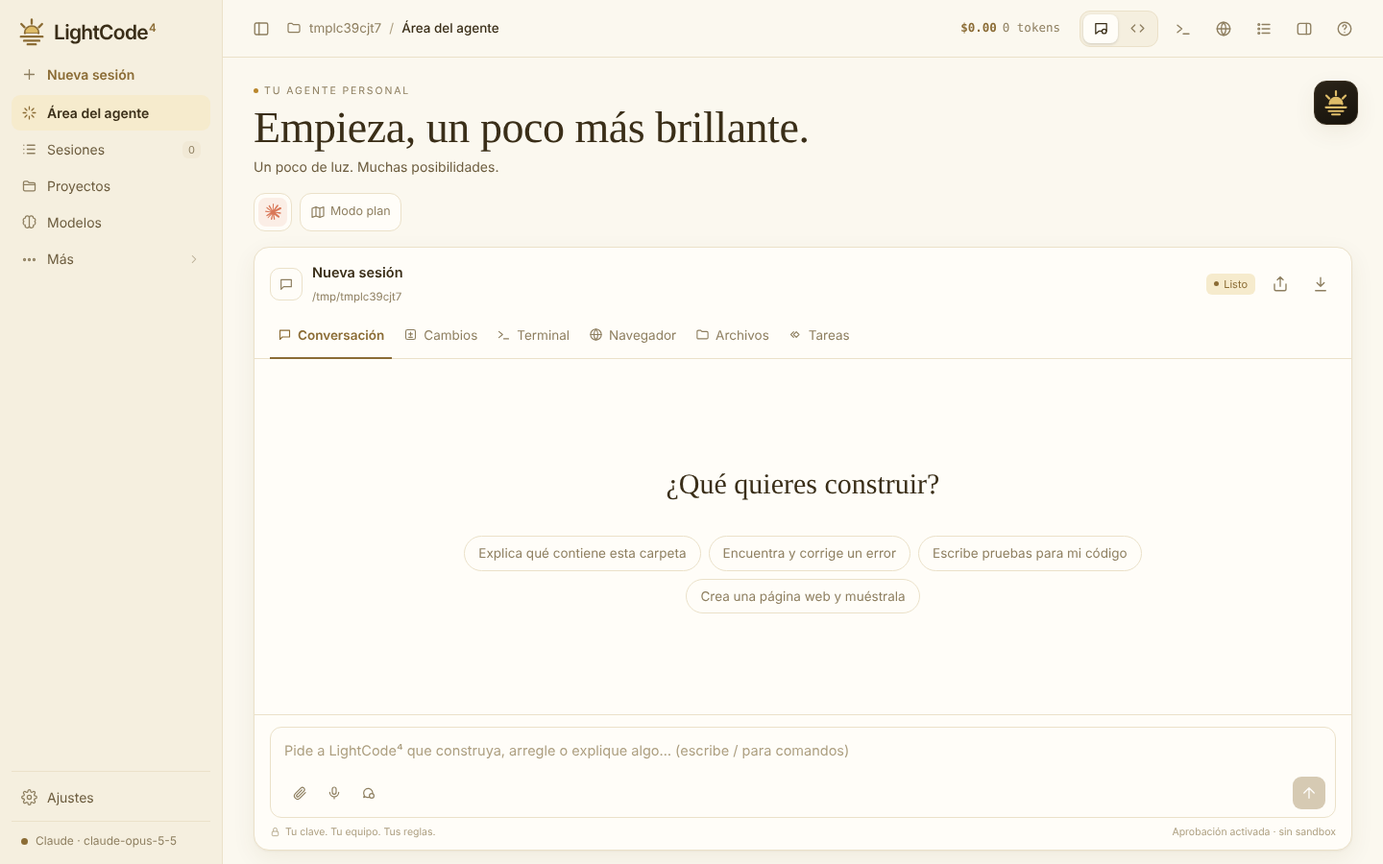
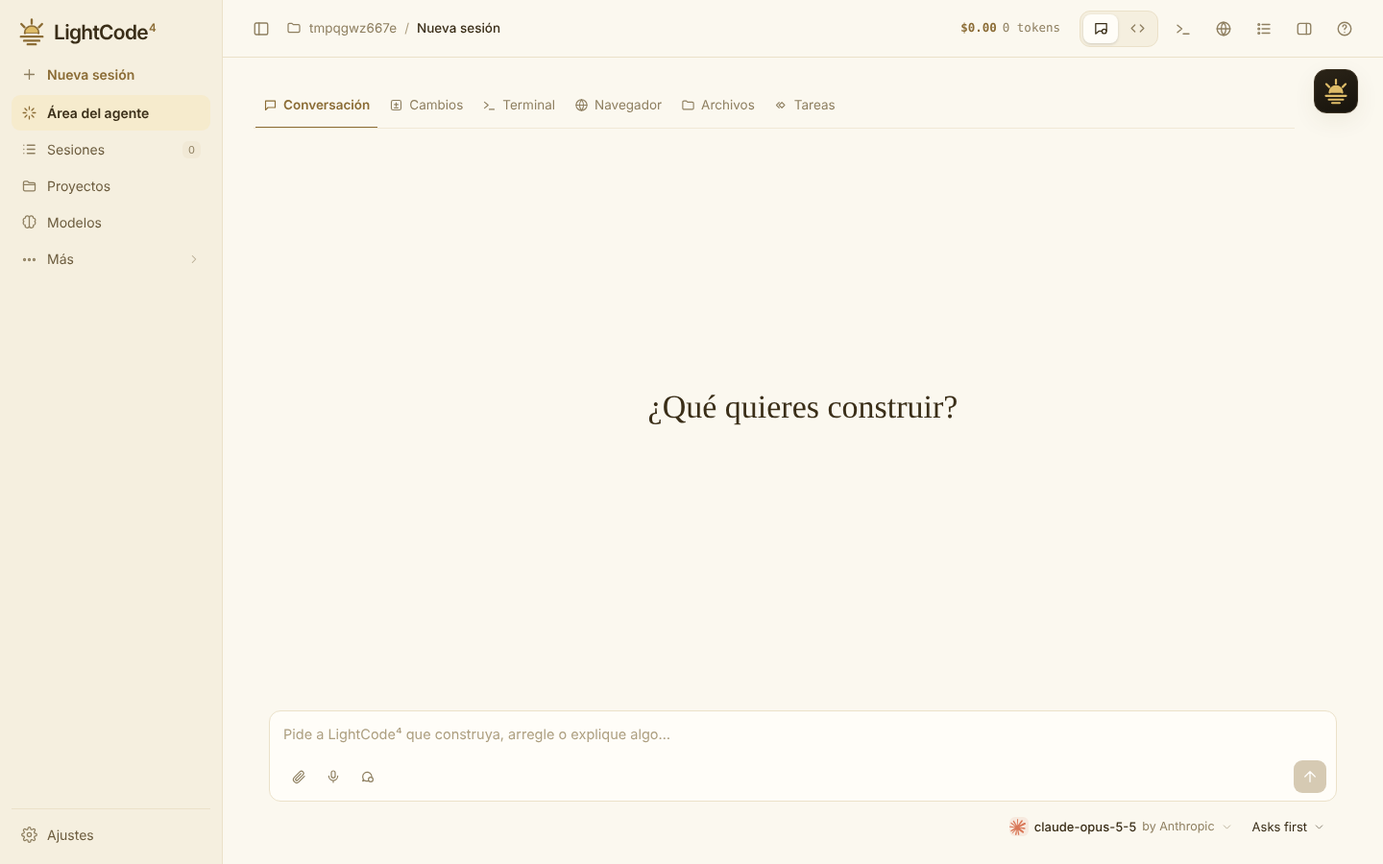
Clean front page: conversation only, model and mode picker under the message box (Asks first / Auto-approve / Plan mode), chat title in the top bar, no headings, chips or slogans
Claude-Session: https://claude.ai/code/session_01AvqsqpDFjBC8YmDhkXMhAb

diff --git a/myagent/static/index.html b/myagent/static/index.html
@@ -444,7 +444,7 @@ details.toolcard { border-radius: 10px; box-shadow: none; }
 @media (max-width: 760px) { .page { padding: 16px; } .pagehead h1 { font-size: 34px; } .pagehead .btn:not(.primary), .ghostbtn { display: none; } }
 
 .rail { width: auto; background: none; padding: 0; border: 0; overflow: visible; margin: 0; }
-#railDock { position: fixed; z-index: 60; right: 26px; top: 84px; touch-action: none; }
+#railDock { position: fixed; z-index: 60; right: 26px; top: 72px; touch-action: none; }
 #railFab { width: 46px; height: 46px; border-radius: 13px; border: 1px solid #3a3020; background: linear-gradient(160deg, #2b2418, #17130c); color: #dfbd69;
   display: grid; place-items: center; box-shadow: var(--shadow); cursor: grab; position: relative; transition: transform .15s, box-shadow .15s; }
 #railFab:hover { transform: translateY(-1px); box-shadow: 0 2px 4px rgba(0,0,0,.08), 0 10px 28px rgba(91,65,21,.14); }
@@ -649,6 +649,35 @@ body.models-open #modelsView { display: block !important; }
 #planBtn { height: 40px; border-radius: 12px; background: var(--panel); }
 #provMenu { left: 0; }
 #side .brand { padding-bottom: 6px; }
+/* ---- clean chat page: conversation, message box, and a small model / mode bar underneath ---- */
+.page > .pagehead { display: none !important; }
+.chatcard { background: none; border: 0; box-shadow: none; }
+.chatcard > .cardhead { display: none; }
+.chatcard .ctabs { border-bottom: 1px solid var(--line-soft); padding-left: 2px; margin-right: 60px; overflow-x: auto; scrollbar-width: none; }
+.chatcard .ctabs::-webkit-scrollbar { display: none; } .chatcard .ctab { flex: none; }
+.chips { display: none !important; }
+#welcome .empty { font-size: 34px; }
+#dock { border-top: 0 !important; }
+#ctxMeter:not([hidden]) + #send { margin-left: 6px; }
+#side .who { display: none; } #side .who:has(.dot.off) { display: flex; }
+#compbar { display: flex; justify-content: flex-end; align-items: center; gap: 6px; padding: 6px 4px 0; position: relative; }
+#compbar .modelbar { display: flex; align-items: center; gap: 4px; position: static; flex-wrap: nowrap; }
+#compbar .modelchip { border: 0; background: none; padding: 4px 8px; border-radius: 9px; gap: 6px; color: var(--text); font-size: 13px; }
+#compbar .modelchip:hover, #compbar .modelchip.open { background: var(--hover); }
+#compbar .modelchip > b, #compbar .modelchip > small, #compbar .modelchip > svg { max-width: none; opacity: 1; margin: 0; }
+#compbar .modelchip > b { font-weight: 500; font-size: 13px; max-width: 260px; overflow: hidden; text-overflow: ellipsis; }
+#compbar .modelchip > small { color: var(--muted); font-size: 12.5px; } #compbar .modelchip > svg { width: 13px; height: 13px; transform: rotate(90deg); opacity: .6; }
+#compbar .modelchip .mlogo, #compbar .modelchip .plogo { width: 20px; height: 20px; font-size: 12px; border-radius: 6px; }
+#compbar #planBtn { height: auto; background: none; border: 0; padding: 4px 8px; border-radius: 9px; font-size: 13px; color: var(--text); display: flex; align-items: center; gap: 6px; }
+#compbar #planBtn:hover, #compbar #planBtn[aria-expanded="true"] { background: var(--hover); } #compbar #planBtn svg { width: 13px; height: 13px; transform: rotate(90deg); opacity: .6; }
+#compbar #planBtn.on { color: var(--accent); }
+#compbar #provMenu { top: auto; bottom: calc(100% + 8px); left: auto; right: 0; }
+#modeMenu { position: absolute; right: 0; bottom: calc(100% + 8px); width: 280px; z-index: 31; background: var(--panel); border: 1px solid var(--line); border-radius: 14px; padding: 6px; box-shadow: 0 12px 40px rgba(0,0,0,.14); }
+#modeMenu[hidden] { display: none; }
+#modeMenu button { display: block; width: 100%; text-align: left; border: 0; background: none; padding: 8px 10px; border-radius: 9px; cursor: pointer; color: var(--text); }
+#modeMenu button:hover, #modeMenu button:focus-visible { background: var(--hover); outline: none; }
+#modeMenu button.on b::after { content: "  ✓"; color: var(--accent); }
+#modeMenu b { display: block; font-size: 13.5px; font-weight: 500; } #modeMenu small { display: block; font-size: 11.5px; color: var(--muted); margin-top: 1px; }
 #side .more { display: flex; flex-direction: column; }
 #moreBtn .mchev { margin-left: auto; width: 14px; height: 14px; transition: transform .2s; opacity: .6; }
 .morelist { display: grid; grid-template-rows: 0fr; opacity: 0; visibility: hidden; overflow: hidden;
@@ -758,17 +787,6 @@ body.models-open #modelsView { display: block !important; }
       <button hidden class="btn" id="viewCodeBtn"><svg viewBox="0 0 24 24"><path d="M8 7l-5 5 5 5M16 7l5 5-5 5"/></svg>View code</button>
       <button hidden class="btn primary" id="newSessionBtn"><svg><use href="#i-plus"/></svg>New session</button>
     </div>
-    <div class="modelbar">
-      <div id="provMenu" class="card" hidden role="menu" aria-label="Choose a provider">
-        <div class="pmhead">A model for every possibility</div><div id="provList"></div>
-        <button class="pmfoot" id="provAll"><svg><use href="#i-list"/></svg>All models &amp; API settings<svg class="arrow"><use href="#i-up"/></svg></button>
-      </div>
-      <button class="modelchip" id="modelPill" title="Model — click to switch" aria-label="Model"><span class="mlogo serif">✳</span><b id="modelName">model</b><small id="modelBy">by Anthropic</small><svg><use href="#i-chev"/></svg></button>
-      <span id="sdkName" hidden></span>
-      <span id="instrPill" class="sdk" hidden data-keep-hidden title="Project instructions in use"><svg><use href="#i-file"/></svg><span id="instrName"></span></span>
-      <span class="spacer"></span>
-      <button class="ghost" id="planBtn" title="Plan mode: research and propose a plan before changing anything"><svg><use href="#i-map"/></svg>Plan mode</button>
-    </div>
     <section id="galleryView" hidden>
       <div class="pagehead"><div><div class="eyebrow">Add abilities in one click</div><h1 class="serif">Skills &amp; connectors</h1>
         <p class="sub">Skills teach the agent a way of working. Connectors give it access to your other apps.</p></div>
@@ -832,10 +850,7 @@ body.models-open #modelsView { display: block !important; }
           <section id="welcome">
             <div class="empty serif">What would you like to build?</div>
             <div class="chips">
-              <button class="chip">Explain what this folder contains</button>
-              <button class="chip">Find and fix a bug</button>
-              <button class="chip">Write tests for my code</button>
-              <button class="chip">Build a small web page and preview it</button>
+
             </div>
           </section>
           <div id="scroll"><div class="col"><div id="log" role="log" aria-live="polite" aria-label="Conversation"></div></div></div>
@@ -883,7 +898,7 @@ body.models-open #modelsView { display: block !important; }
 <div class="composer" id="composer">
       <div id="cmdMenu"></div>
       <div id="files"></div>
-      <textarea id="input" aria-label="Message" rows="1" placeholder="Ask LightCode⁴ to build, fix or explain something… (type / for commands)"></textarea>
+      <textarea id="input" aria-label="Message" rows="1" placeholder="Ask LightCode⁴ to build, fix or explain something…"></textarea>
       <div class="comp-row">
         <button class="ghost" id="attach" title="Attach images, PDFs or text files" aria-label="Attach files"><svg><use href="#i-clip"/></svg></button>
         <button class="ghost" id="micBtn" title="Voice typing" aria-label="Voice typing"><svg viewBox="0 0 24 24"><rect x="9" y="3" width="6" height="11" rx="3"/><path d="M5 11a7 7 0 0 0 14 0M12 18v3"/></svg></button>
@@ -893,7 +908,24 @@ body.models-open #modelsView { display: block !important; }
       </div>
       <input type="file" id="fileInput" multiple hidden>
     </div>
-          <div class="foot"><span><svg viewBox="0 0 24 24"><rect x="5" y="11" width="14" height="10" rx="2"/><path d="M8 11V7a4 4 0 0 1 8 0v4"/></svg>Your API key. Your machine. Your rules.</span><span id="footMode">Local workspace</span></div>
+          <div class="foot" id="compbar">
+            <div class="modelbar">
+      <div id="provMenu" class="card" hidden role="menu" aria-label="Choose a provider">
+        <div class="pmhead">A model for every possibility</div><div id="provList"></div>
+        <button class="pmfoot" id="provAll"><svg><use href="#i-list"/></svg>All models &amp; API settings<svg class="arrow"><use href="#i-up"/></svg></button>
+      </div>
+      <button class="modelchip" id="modelPill" title="Model — click to switch" aria-label="Model"><span class="mlogo serif">✳</span><b id="modelName">model</b><small id="modelBy">by Anthropic</small><svg><use href="#i-chev"/></svg></button>
+      <span id="sdkName" hidden></span>
+      <span id="instrPill" class="sdk" hidden data-keep-hidden title="Project instructions in use"><svg><use href="#i-file"/></svg><span id="instrName"></span></span>
+      <span class="spacer"></span>
+      <button class="ghost" id="planBtn" title="How the agent works: asks first, auto-approve, or plan mode" aria-haspopup="menu" aria-expanded="false"><span id="modeLabel">Asks first</span><svg><use href="#i-chev"/></svg></button>
+      <div id="modeMenu" role="menu" hidden>
+        <button role="menuitemradio" data-mode="ask"><b>Asks first</b><small>Approve each change and command</small></button>
+        <button role="menuitemradio" data-mode="auto"><b>Auto-approve</b><small>Works without stopping to ask</small></button>
+        <button role="menuitemradio" data-mode="plan"><b>Plan mode</b><small>Researches and proposes a plan, changes nothing</small></button>
+      </div>
+    </div>
+          <span id="footMode" hidden></span></div>
         </div>
       </section>
       <div id="railDock">
@@ -1443,10 +1475,11 @@ function setProvider(p) {
   $("models").innerHTML = (MODELS[p] || []).map(m => `<option value="${m}">`).join("");
 }
 function setPlanTr() { if (typeof uiLang !== "undefined" && uiLang !== "en") { const t = (I18N[uiLang] || {})[$("input").placeholder]; if (t) $("input").placeholder = t; } }
-function setPlan(on) { config.plan = on; $("planBtn").classList.toggle("on", on); $("composer").classList.toggle("plan", on);
-  $("input").placeholder = on ? "Describe what you want. The agent will research and propose a plan first…" : "Ask LightCode⁴ to build, fix or explain something… (type / for commands)"; setPlanTr(); }
+function setPlan(on) { config.plan = on; $("planBtn").classList.toggle("on", on); $("composer").classList.toggle("plan", on); if (typeof updateModeBtn === "function") updateModeBtn();
+  $("input").placeholder = on ? "Describe what you want. The agent will research and propose a plan first…" : "Ask LightCode⁴ to build, fix or explain something…"; setPlanTr(); }
 function showConfig(c) {
   config = c;
+  if (typeof updateModeBtn === "function") setTimeout(updateModeBtn, 0);
   $("modelName").textContent = c.model + (c.provider === "claude" ? ` · ${c.effort}` : "");
   $("who").textContent = { claude: "Claude", openai: "OpenAI", local: "Local" }[c.provider] + " · " + c.model;
   const parts = (c.cwd || "").split(/[\\/]/).filter(Boolean); $("folderName").textContent = (parts.length > 2 ? "…/" : "/") + parts.slice(-2).join("/");
@@ -1528,7 +1561,25 @@ $("cancelSettings").onclick = $("closeSettings").onclick = () => $("settings").c
 $("openSettings").onclick = () => openSettings(); $("modelPill").onclick = () => openSettings(); $("folderPill").onclick = () => openSettings();
 $("instrPill").onclick = () => openSettings("instr");
 $("toggleSide").onclick = () => $("side").classList.toggle("hidden");
-$("planBtn").onclick = async () => { const on = !config.plan; setPlan(on); try { await api("/api/config", { plan: on }); } catch (e) { notice(e.message); } };
+function updateModeBtn() {
+  const m = config.plan ? "plan" : config.auto ? "auto" : "ask";
+  $("modeLabel").textContent = { ask: "Asks first", auto: "Auto-approve", plan: "Plan mode" }[m];
+  document.querySelectorAll("#modeMenu [data-mode]").forEach(b => { b.classList.toggle("on", b.dataset.mode === m); b.setAttribute("aria-checked", b.dataset.mode === m); });
+}
+function toggleModeMenu(on = $("modeMenu").hidden) {
+  $("modeMenu").hidden = !on; $("planBtn").setAttribute("aria-expanded", on);
+  if (on) { updateModeBtn(); setTimeout(() => ($("modeMenu").querySelector(".on") || $("modeMenu").querySelector("button")).focus(), 10); }
+}
+$("planBtn").onclick = e => { e.stopPropagation(); toggleModeMenu(); };
+document.querySelectorAll("#modeMenu [data-mode]").forEach(b => b.onclick = async () => {
+  const m = b.dataset.mode, upd = m === "plan" ? { plan: true } : { plan: false, auto: m === "auto" };
+  toggleModeMenu(false); Object.assign(config, upd); setPlan(!!config.plan); updateModeBtn();
+  try { await api("/api/config", upd); } catch (e) { notice(e.message); }
+});
+$("modeMenu").addEventListener("keydown", e => { const items = [...$("modeMenu").querySelectorAll("button")], i = items.indexOf(document.activeElement);
+  if (e.key === "ArrowDown" || e.key === "ArrowUp") { e.preventDefault(); items[(i + (e.key === "ArrowDown" ? 1 : -1) + items.length) % items.length].focus(); }
+  if (e.key === "Escape") { e.preventDefault(); toggleModeMenu(false); $("planBtn").focus(); } });
+document.addEventListener("pointerdown", e => { if (!$("modeMenu").hidden && !e.target.closest("#modeMenu, #planBtn")) toggleModeMenu(false); });
 $("checkUpdate").onclick = async () => {
   $("updateResult").textContent = "Checking…";
   if ($("ghToken").value) await api("/api/config", { github_token: $("ghToken").value }).catch(() => {});
@@ -2164,7 +2215,7 @@ const _openPanel = openPanel, _closePanel = closePanel;
 openPanel = function (tab) { _openPanel(tab); setTab(tab); };
 closePanel = function () { _closePanel(); setTab("chat"); };
 function setTab(t) { document.querySelectorAll(".ctab").forEach(b => b.classList.toggle("on", b.dataset.c === t));
-  $("modeChat").classList.toggle("on", t !== "git"); $("modeCode").classList.toggle("on", t === "git"); $("crumbHere").textContent = { chat: "Agent playground", git: "Changes", term: "Terminal", browser: "Browser", files: "Files", tasks: "Background tasks" }[t] || "Agent playground"; }
+  $("modeChat").classList.toggle("on", t !== "git"); $("modeCode").classList.toggle("on", t === "git"); $("crumbHere").textContent = { chat: $("chatHead").textContent || "New session", git: "Changes", term: "Terminal", browser: "Browser", files: "Files", tasks: "Background tasks" }[t] || "Agent playground"; }
 document.querySelectorAll(".ctab").forEach(b => b.onclick = () => b.dataset.c === "chat" ? closePanel() : openPanel(b.dataset.c));
 $("greet").textContent = "Begin, a little brighter.";
 const navSet = (id) => { document.querySelectorAll("aside .navbtn").forEach(b => b.classList.toggle("on", !!id && b.id === id)); };
@@ -2295,9 +2346,9 @@ const _setBusy = setBusy;
 setBusy = function (b) { _setBusy(b); for (const id of ["chatStatus", "railStatus"]) { $(id).textContent = b ? "Working" : (document.body.classList.contains("chatting") ? "Completed" : "Ready"); $(id).classList.toggle("busy", b); }
   const d = $("railFabDot"); d.classList.toggle("busy", b); d.classList.toggle("done", !b && document.body.classList.contains("chatting")); };
 const _replay = replay;
-replay = function (ev) { _replay(ev); $("chatHead").textContent = ev.chat?.title || "New session"; $("chatSub").textContent = (ev.chat?.project ? "Project · " + ev.chat.project + " · " : "") + (ev.chat?.worktree ? "Branch " + ev.chat.worktree.branch : (ev.chat?.cwd || "Local workspace")); setBusy(!!ev.busy); };
+replay = function (ev) { _replay(ev); $("chatHead").textContent = ev.chat?.title || "New session"; if (!panelTab && !document.body.className.match(/(models|projects|usage|gallery)-open/)) $("crumbHere").textContent = $("chatHead").textContent; $("chatSub").textContent = (ev.chat?.project ? "Project · " + ev.chat.project + " · " : "") + (ev.chat?.worktree ? "Branch " + ev.chat.worktree.branch : (ev.chat?.cwd || "Local workspace")); setBusy(!!ev.busy); };
 const _userMsg = userMsg;
-userMsg = function (ev) { _userMsg(ev); if ($("chatHead").textContent === "New session") $("chatHead").textContent = ev.text.split("\n")[0].slice(0, 70); };
+userMsg = function (ev) { _userMsg(ev); if ($("chatHead").textContent === "New session") { $("chatHead").textContent = ev.text.split("\n")[0].slice(0, 70); if (!panelTab && $("crumbHere").textContent === "New session") $("crumbHere").textContent = $("chatHead").textContent; } };
 let chatCache = [];
 const _loadChats = loadChats;
 loadChats = async function () { await _loadChats(); chatCache = [...document.querySelectorAll("#chatList .chatitem")].map(x => ({ id: x.dataset.id, title: x.title }));
@@ -2425,7 +2476,7 @@ $("fpClose").onclick = () => $("folderPicker").close();
 $("wsBox").onclick = $("railWsBtn").onclick = $("folderPill").onclick = openFolderPicker;
 
 // ---------- Interface language ----------
-const I18N = {"es": {"Agent playground": "Área del agente", "Sessions": "Sesiones", "New session": "Nueva sesión", "Parallel session (worktree)": "Sesión paralela (worktree)", "Workspace": "Espacio de trabajo", "Tasks & plans": "Tareas y planes", "Source control": "Control de versiones", "Make it yours": "Hazlo tuyo", "Context & rules": "Contexto y reglas", "Models": "Modelos", "Tools": "Herramientas", "Connectors": "Conectores", "Automations": "Automatizaciones", "Usage & cost": "Uso y costo", "Activity": "Actividad", "More": "Más", "Changes": "Cambios", "Browser": "Navegador", "Tasks": "Tareas", "Background tasks": "Tareas en segundo plano", "Projects": "Proyectos", "Skills & connectors": "Habilidades y conectores", "Settings": "Ajustes", "A little help": "Ayuda", "Jump to anything…": "Ir a cualquier cosa…", "Your personal agent": "Tu agente personal", "Begin, a little brighter.": "Empieza, un poco más brillante.", "A little light. A lot of possibility.": "Un poco de luz. Muchas posibilidades.", "Checkpoints": "Puntos de control", "View code": "Ver código", "Plan mode": "Modo plan", "Browser preview": "Vista del navegador", "Terminal": "Terminal", "Conversation": "Conversación", "Files": "Archivos", "Run logs": "Registros", "Preview": "Vista previa", "Run overview": "Resumen", "No plan yet": "Aún sin plan", "Open task board": "Abrir tareas", "Model": "Modelo", "Tokens used": "Tokens usados", "Cost": "Costo", "Your next edit, safely saved.": "Tu próxima edición, guardada.", "View": "Ver", "Ready": "Listo", "Working": "Trabajando", "Completed": "Completado", "Idle": "Inactivo", "Your API key. Your machine. Your rules.": "Tu clave. Tu equipo. Tus reglas.", "What would you like to build?": "¿Qué quieres construir?", "Explain what this folder contains": "Explica qué contiene esta carpeta", "Find and fix a bug": "Encuentra y corrige un error", "Write tests for my code": "Escribe pruebas para mi código", "Build a small web page and preview it": "Crea una página web y muéstrala", "Allow": "Permitir", "Deny": "Denegar", "Done": "Hecho", "Running": "Ejecutando", "Failed": "Falló", "Needs approval": "Requiere aprobación", "Undo": "Deshacer", "Cancel": "Cancelar", "Save": "Guardar", "Tools & limits": "Herramientas y límites", "Permissions": "Permisos", "Project instructions": "Instrucciones del proyecto", "Memory": "Memoria", "Schedules": "Programación", "Phone": "Teléfono", "Updates": "Actualizaciones", "Project folder": "Carpeta del proyecto", "Open": "Abrir", "Choose folder…": "Elegir carpeta…", "Keyboard shortcuts": "Atajos de teclado", "Load models": "Cargar modelos", "Test connection": "Probar conexión", "Ask LightCode⁴ to build, fix or explain something… (type / for commands)": "Pide a LightCode⁴ que construya, arregle o explique algo… (escribe / para comandos)", "Approval on": "Aprobación activada", "Auto-approve": "Aprobación automática", "sandboxed": "en sandbox", "unsandboxed": "sin sandbox", "Search models…": "Buscar modelos…"}, "fr": {"Agent playground": "Espace agent", "Sessions": "Sessions", "New session": "Nouvelle session", "Parallel session (worktree)": "Session parallèle (worktree)", "Workspace": "Espace de travail", "Tasks & plans": "Tâches et plans", "Source control": "Contrôle de source", "Make it yours": "Personnaliser", "Context & rules": "Contexte et règles", "Models": "Modèles", "Tools": "Outils", "Connectors": "Connecteurs", "Automations": "Automatisations", "Usage & cost": "Usage et coût", "Activity": "Activité", "More": "Plus", "Changes": "Modifications", "Browser": "Navigateur", "Tasks": "Tâches", "Background tasks": "Tâches en arrière-plan", "Projects": "Projets", "Skills & connectors": "Compétences et connecteurs", "Settings": "Réglages", "A little help": "Aide", "Jump to anything…": "Aller à…", "Your personal agent": "Votre agent personnel", "Begin, a little brighter.": "Commencez, un peu plus lumineux.", "A little light. A lot of possibility.": "Un peu de lumière. Beaucoup de possibilités.", "Checkpoints": "Points de contrôle", "View code": "Voir le code", "Plan mode": "Mode plan", "Browser preview": "Aperçu navigateur", "Terminal": "Terminal", "Conversation": "Conversation", "Files": "Fichiers", "Run logs": "Journaux", "Preview": "Aperçu", "Run overview": "Aperçu de l'exécution", "No plan yet": "Pas encore de plan", "Open task board": "Ouvrir les tâches", "Model": "Modèle", "Tokens used": "Jetons utilisés", "Cost": "Coût", "Your next edit, safely saved.": "Votre prochaine modification, sauvegardée.", "View": "Voir", "Ready": "Prêt", "Working": "En cours", "Completed": "Terminé", "Idle": "Inactif", "Your API key. Your machine. Your rules.": "Votre clé. Votre machine. Vos règles.", "What would you like to build?": "Que voulez-vous créer ?", "Explain what this folder contains": "Explique le contenu de ce dossier", "Find and fix a bug": "Trouver et corriger un bug", "Write tests for my code": "Écrire des tests pour mon code", "Build a small web page and preview it": "Créer une petite page web et l'afficher", "Allow": "Autoriser", "Deny": "Refuser", "Done": "Fait", "Running": "En cours", "Failed": "Échec", "Needs approval": "À approuver", "Undo": "Annuler", "Cancel": "Annuler", "Save": "Enregistrer", "Tools & limits": "Outils et limites", "Permissions": "Autorisations", "Project instructions": "Instructions du projet", "Memory": "Mémoire", "Schedules": "Planification", "Phone": "Téléphone", "Updates": "Mises à jour", "Project folder": "Dossier du projet", "Open": "Ouvrir", "Choose folder…": "Choisir un dossier…", "Keyboard shortcuts": "Raccourcis clavier", "Load models": "Charger les modèles", "Test connection": "Tester la connexion", "Ask LightCode⁴ to build, fix or explain something… (type / for commands)": "Demandez à LightCode⁴ de créer, corriger ou expliquer… (tapez / pour les commandes)", "Approval on": "Approbation activée", "Auto-approve": "Approbation auto", "sandboxed": "isolé", "unsandboxed": "non isolé", "Search models…": "Rechercher des modèles…"}, "pt": {"Agent playground": "Área do agente", "Sessions": "Sessões", "New session": "Nova sessão", "Parallel session (worktree)": "Sessão paralela (worktree)", "Workspace": "Espaço de trabalho", "Tasks & plans": "Tarefas e planos", "Source control": "Controle de versão", "Make it yours": "Personalize", "Context & rules": "Contexto e regras", "Models": "Modelos", "Tools": "Ferramentas", "Connectors": "Conectores", "Automations": "Automações", "Usage & cost": "Uso e custo", "Activity": "Atividade", "More": "Mais", "Changes": "Alterações", "Browser": "Navegador", "Tasks": "Tarefas", "Background tasks": "Tarefas em segundo plano", "Projects": "Projetos", "Skills & connectors": "Habilidades e conectores", "Settings": "Configurações", "A little help": "Ajuda", "Jump to anything…": "Ir para…", "Your personal agent": "Seu agente pessoal", "Begin, a little brighter.": "Comece, um pouco mais brilhante.", "A little light. A lot of possibility.": "Um pouco de luz. Muitas possibilidades.", "Checkpoints": "Pontos de controle", "View code": "Ver código", "Plan mode": "Modo plano", "Browser preview": "Prévia do navegador", "Terminal": "Terminal", "Conversation": "Conversa", "Files": "Arquivos", "Run logs": "Registros", "Preview": "Prévia", "Run overview": "Resumo", "No plan yet": "Sem plano ainda", "Open task board": "Abrir tarefas", "Model": "Modelo", "Tokens used": "Tokens usados", "Cost": "Custo", "Your next edit, safely saved.": "Sua próxima edição, salva.", "View": "Ver", "Ready": "Pronto", "Working": "Trabalhando", "Completed": "Concluído", "Idle": "Ocioso", "Your API key. Your machine. Your rules.": "Sua chave. Sua máquina. Suas regras.", "What would you like to build?": "O que você quer construir?", "Explain what this folder contains": "Explique o que esta pasta contém", "Find and fix a bug": "Encontre e corrija um bug", "Write tests for my code": "Escreva testes para meu código", "Build a small web page and preview it": "Crie uma página web e visualize", "Allow": "Permitir", "Deny": "Negar", "Done": "Feito", "Running": "Executando", "Failed": "Falhou", "Needs approval": "Precisa de aprovação", "Undo": "Desfazer", "Cancel": "Cancelar", "Save": "Salvar", "Tools & limits": "Ferramentas e limites", "Permissions": "Permissões", "Project instructions": "Instruções do projeto", "Memory": "Memória", "Schedules": "Agendamentos", "Phone": "Telefone", "Updates": "Atualizações", "Project folder": "Pasta do projeto", "Open": "Abrir", "Choose folder…": "Escolher pasta…", "Keyboard shortcuts": "Atalhos de teclado", "Load models": "Carregar modelos", "Test connection": "Testar conexão", "Ask LightCode⁴ to build, fix or explain something… (type / for commands)": "Peça ao LightCode⁴ para construir, corrigir ou explicar… (digite / para comandos)", "Approval on": "Aprovação ativada", "Auto-approve": "Aprovação automática", "sandboxed": "isolado", "unsandboxed": "sem isolamento", "Search models…": "Buscar modelos…"}, "de": {"Agent playground": "Agenten-Bereich", "Sessions": "Sitzungen", "New session": "Neue Sitzung", "Parallel session (worktree)": "Parallele Sitzung (Worktree)", "Workspace": "Arbeitsbereich", "Tasks & plans": "Aufgaben & Pläne", "Source control": "Versionskontrolle", "Make it yours": "Anpassen", "Context & rules": "Kontext & Regeln", "Models": "Modelle", "Tools": "Werkzeuge", "Connectors": "Konnektoren", "Automations": "Automationen", "Usage & cost": "Nutzung & Kosten", "Activity": "Aktivität", "More": "Mehr", "Changes": "Änderungen", "Browser": "Browser", "Tasks": "Aufgaben", "Background tasks": "Hintergrundaufgaben", "Projects": "Projekte", "Skills & connectors": "Skills & Konnektoren", "Settings": "Einstellungen", "A little help": "Hilfe", "Jump to anything…": "Springe zu…", "Your personal agent": "Dein persönlicher Agent", "Begin, a little brighter.": "Beginne, ein wenig heller.", "A little light. A lot of possibility.": "Ein wenig Licht. Viele Möglichkeiten.", "Checkpoints": "Prüfpunkte", "View code": "Code ansehen", "Plan mode": "Planmodus", "Browser preview": "Browser-Vorschau", "Terminal": "Terminal", "Conversation": "Unterhaltung", "Files": "Dateien", "Run logs": "Protokolle", "Preview": "Vorschau", "Run overview": "Übersicht", "No plan yet": "Noch kein Plan", "Open task board": "Aufgaben öffnen", "Model": "Modell", "Tokens used": "Tokens genutzt", "Cost": "Kosten", "Your next edit, safely saved.": "Deine nächste Änderung, gesichert.", "View": "Ansehen", "Ready": "Bereit", "Working": "Arbeitet", "Completed": "Fertig", "Idle": "Bereit", "Your API key. Your machine. Your rules.": "Dein Schlüssel. Dein Rechner. Deine Regeln.", "What would you like to build?": "Was möchtest du bauen?", "Explain what this folder contains": "Erkläre, was dieser Ordner enthält", "Find and fix a bug": "Finde und behebe einen Fehler", "Write tests for my code": "Schreibe Tests für meinen Code", "Build a small web page and preview it": "Baue eine kleine Webseite mit Vorschau", "Allow": "Erlauben", "Deny": "Ablehnen", "Done": "Erledigt", "Running": "Läuft", "Failed": "Fehlgeschlagen", "Needs approval": "Genehmigung nötig", "Undo": "Rückgängig", "Cancel": "Abbrechen", "Save": "Speichern", "Tools & limits": "Werkzeuge & Limits", "Permissions": "Berechtigungen", "Project instructions": "Projektanweisungen", "Memory": "Gedächtnis", "Schedules": "Zeitpläne", "Phone": "Telefon", "Updates": "Updates", "Project folder": "Projektordner", "Open": "Öffnen", "Choose folder…": "Ordner wählen…", "Keyboard shortcuts": "Tastenkürzel", "Load models": "Modelle laden", "Test connection": "Verbindung testen", "Ask LightCode⁴ to build, fix or explain something… (type / for commands)": "Bitte LightCode⁴, etwas zu bauen, zu reparieren oder zu erklären… (/ für Befehle)", "Approval on": "Genehmigung an", "Auto-approve": "Automatisch erlauben", "sandboxed": "abgeschirmt", "unsandboxed": "ohne Sandbox", "Search models…": "Modelle suchen…"}};
+const I18N = {"es": {"Agent playground": "Área del agente", "Sessions": "Sesiones", "New session": "Nueva sesión", "Parallel session (worktree)": "Sesión paralela (worktree)", "Workspace": "Espacio de trabajo", "Tasks & plans": "Tareas y planes", "Source control": "Control de versiones", "Make it yours": "Hazlo tuyo", "Context & rules": "Contexto y reglas", "Models": "Modelos", "Tools": "Herramientas", "Connectors": "Conectores", "Automations": "Automatizaciones", "Usage & cost": "Uso y costo", "Activity": "Actividad", "More": "Más", "Changes": "Cambios", "Browser": "Navegador", "Tasks": "Tareas", "Background tasks": "Tareas en segundo plano", "Projects": "Proyectos", "Skills & connectors": "Habilidades y conectores", "Settings": "Ajustes", "A little help": "Ayuda", "Jump to anything…": "Ir a cualquier cosa…", "Your personal agent": "Tu agente personal", "Begin, a little brighter.": "Empieza, un poco más brillante.", "A little light. A lot of possibility.": "Un poco de luz. Muchas posibilidades.", "Checkpoints": "Puntos de control", "View code": "Ver código", "Plan mode": "Modo plan", "Browser preview": "Vista del navegador", "Terminal": "Terminal", "Conversation": "Conversación", "Files": "Archivos", "Run logs": "Registros", "Preview": "Vista previa", "Run overview": "Resumen", "No plan yet": "Aún sin plan", "Open task board": "Abrir tareas", "Model": "Modelo", "Tokens used": "Tokens usados", "Cost": "Costo", "Your next edit, safely saved.": "Tu próxima edición, guardada.", "View": "Ver", "Ready": "Listo", "Working": "Trabajando", "Completed": "Completado", "Idle": "Inactivo", "Your API key. Your machine. Your rules.": "Tu clave. Tu equipo. Tus reglas.", "What would you like to build?": "¿Qué quieres construir?", "Explain what this folder contains": "Explica qué contiene esta carpeta", "Find and fix a bug": "Encuentra y corrige un error", "Write tests for my code": "Escribe pruebas para mi código", "Build a small web page and preview it": "Crea una página web y muéstrala", "Allow": "Permitir", "Deny": "Denegar", "Done": "Hecho", "Running": "Ejecutando", "Failed": "Falló", "Needs approval": "Requiere aprobación", "Undo": "Deshacer", "Cancel": "Cancelar", "Save": "Guardar", "Tools & limits": "Herramientas y límites", "Permissions": "Permisos", "Project instructions": "Instrucciones del proyecto", "Memory": "Memoria", "Schedules": "Programación", "Phone": "Teléfono", "Updates": "Actualizaciones", "Project folder": "Carpeta del proyecto", "Open": "Abrir", "Choose folder…": "Elegir carpeta…", "Keyboard shortcuts": "Atajos de teclado", "Load models": "Cargar modelos", "Test connection": "Probar conexión", "Ask LightCode⁴ to build, fix or explain something…": "Pide a LightCode⁴ que construya, arregle o explique algo…", "Approval on": "Aprobación activada", "Auto-approve": "Aprobación automática", "sandboxed": "en sandbox", "unsandboxed": "sin sandbox", "Search models…": "Buscar modelos…"}, "fr": {"Agent playground": "Espace agent", "Sessions": "Sessions", "New session": "Nouvelle session", "Parallel session (worktree)": "Session parallèle (worktree)", "Workspace": "Espace de travail", "Tasks & plans": "Tâches et plans", "Source control": "Contrôle de source", "Make it yours": "Personnaliser", "Context & rules": "Contexte et règles", "Models": "Modèles", "Tools": "Outils", "Connectors": "Connecteurs", "Automations": "Automatisations", "Usage & cost": "Usage et coût", "Activity": "Activité", "More": "Plus", "Changes": "Modifications", "Browser": "Navigateur", "Tasks": "Tâches", "Background tasks": "Tâches en arrière-plan", "Projects": "Projets", "Skills & connectors": "Compétences et connecteurs", "Settings": "Réglages", "A little help": "Aide", "Jump to anything…": "Aller à…", "Your personal agent": "Votre agent personnel", "Begin, a little brighter.": "Commencez, un peu plus lumineux.", "A little light. A lot of possibility.": "Un peu de lumière. Beaucoup de possibilités.", "Checkpoints": "Points de contrôle", "View code": "Voir le code", "Plan mode": "Mode plan", "Browser preview": "Aperçu navigateur", "Terminal": "Terminal", "Conversation": "Conversation", "Files": "Fichiers", "Run logs": "Journaux", "Preview": "Aperçu", "Run overview": "Aperçu de l'exécution", "No plan yet": "Pas encore de plan", "Open task board": "Ouvrir les tâches", "Model": "Modèle", "Tokens used": "Jetons utilisés", "Cost": "Coût", "Your next edit, safely saved.": "Votre prochaine modification, sauvegardée.", "View": "Voir", "Ready": "Prêt", "Working": "En cours", "Completed": "Terminé", "Idle": "Inactif", "Your API key. Your machine. Your rules.": "Votre clé. Votre machine. Vos règles.", "What would you like to build?": "Que voulez-vous créer ?", "Explain what this folder contains": "Explique le contenu de ce dossier", "Find and fix a bug": "Trouver et corriger un bug", "Write tests for my code": "Écrire des tests pour mon code", "Build a small web page and preview it": "Créer une petite page web et l'afficher", "Allow": "Autoriser", "Deny": "Refuser", "Done": "Fait", "Running": "En cours", "Failed": "Échec", "Needs approval": "À approuver", "Undo": "Annuler", "Cancel": "Annuler", "Save": "Enregistrer", "Tools & limits": "Outils et limites", "Permissions": "Autorisations", "Project instructions": "Instructions du projet", "Memory": "Mémoire", "Schedules": "Planification", "Phone": "Téléphone", "Updates": "Mises à jour", "Project folder": "Dossier du projet", "Open": "Ouvrir", "Choose folder…": "Choisir un dossier…", "Keyboard shortcuts": "Raccourcis clavier", "Load models": "Charger les modèles", "Test connection": "Tester la connexion", "Ask LightCode⁴ to build, fix or explain something…": "Demandez à LightCode⁴ de créer, corriger ou expliquer…", "Approval on": "Approbation activée", "Auto-approve": "Approbation auto", "sandboxed": "isolé", "unsandboxed": "non isolé", "Search models…": "Rechercher des modèles…"}, "pt": {"Agent playground": "Área do agente", "Sessions": "Sessões", "New session": "Nova sessão", "Parallel session (worktree)": "Sessão paralela (worktree)", "Workspace": "Espaço de trabalho", "Tasks & plans": "Tarefas e planos", "Source control": "Controle de versão", "Make it yours": "Personalize", "Context & rules": "Contexto e regras", "Models": "Modelos", "Tools": "Ferramentas", "Connectors": "Conectores", "Automations": "Automações", "Usage & cost": "Uso e custo", "Activity": "Atividade", "More": "Mais", "Changes": "Alterações", "Browser": "Navegador", "Tasks": "Tarefas", "Background tasks": "Tarefas em segundo plano", "Projects": "Projetos", "Skills & connectors": "Habilidades e conectores", "Settings": "Configurações", "A little help": "Ajuda", "Jump to anything…": "Ir para…", "Your personal agent": "Seu agente pessoal", "Begin, a little brighter.": "Comece, um pouco mais brilhante.", "A little light. A lot of possibility.": "Um pouco de luz. Muitas possibilidades.", "Checkpoints": "Pontos de controle", "View code": "Ver código", "Plan mode": "Modo plano", "Browser preview": "Prévia do navegador", "Terminal": "Terminal", "Conversation": "Conversa", "Files": "Arquivos", "Run logs": "Registros", "Preview": "Prévia", "Run overview": "Resumo", "No plan yet": "Sem plano ainda", "Open task board": "Abrir tarefas", "Model": "Modelo", "Tokens used": "Tokens usados", "Cost": "Custo", "Your next edit, safely saved.": "Sua próxima edição, salva.", "View": "Ver", "Ready": "Pronto", "Working": "Trabalhando", "Completed": "Concluído", "Idle": "Ocioso", "Your API key. Your machine. Your rules.": "Sua chave. Sua máquina. Suas regras.", "What would you like to build?": "O que você quer construir?", "Explain what this folder contains": "Explique o que esta pasta contém", "Find and fix a bug": "Encontre e corrija um bug", "Write tests for my code": "Escreva testes para meu código", "Build a small web page and preview it": "Crie uma página web e visualize", "Allow": "Permitir", "Deny": "Negar", "Done": "Feito", "Running": "Executando", "Failed": "Falhou", "Needs approval": "Precisa de aprovação", "Undo": "Desfazer", "Cancel": "Cancelar", "Save": "Salvar", "Tools & limits": "Ferramentas e limites", "Permissions": "Permissões", "Project instructions": "Instruções do projeto", "Memory": "Memória", "Schedules": "Agendamentos", "Phone": "Telefone", "Updates": "Atualizações", "Project folder": "Pasta do projeto", "Open": "Abrir", "Choose folder…": "Escolher pasta…", "Keyboard shortcuts": "Atalhos de teclado", "Load models": "Carregar modelos", "Test connection": "Testar conexão", "Ask LightCode⁴ to build, fix or explain something…": "Peça ao LightCode⁴ para construir, corrigir ou explicar…", "Approval on": "Aprovação ativada", "Auto-approve": "Aprovação automática", "sandboxed": "isolado", "unsandboxed": "sem isolamento", "Search models…": "Buscar modelos…"}, "de": {"Agent playground": "Agenten-Bereich", "Sessions": "Sitzungen", "New session": "Neue Sitzung", "Parallel session (worktree)": "Parallele Sitzung (Worktree)", "Workspace": "Arbeitsbereich", "Tasks & plans": "Aufgaben & Pläne", "Source control": "Versionskontrolle", "Make it yours": "Anpassen", "Context & rules": "Kontext & Regeln", "Models": "Modelle", "Tools": "Werkzeuge", "Connectors": "Konnektoren", "Automations": "Automationen", "Usage & cost": "Nutzung & Kosten", "Activity": "Aktivität", "More": "Mehr", "Changes": "Änderungen", "Browser": "Browser", "Tasks": "Aufgaben", "Background tasks": "Hintergrundaufgaben", "Projects": "Projekte", "Skills & connectors": "Skills & Konnektoren", "Settings": "Einstellungen", "A little help": "Hilfe", "Jump to anything…": "Springe zu…", "Your personal agent": "Dein persönlicher Agent", "Begin, a little brighter.": "Beginne, ein wenig heller.", "A little light. A lot of possibility.": "Ein wenig Licht. Viele Möglichkeiten.", "Checkpoints": "Prüfpunkte", "View code": "Code ansehen", "Plan mode": "Planmodus", "Browser preview": "Browser-Vorschau", "Terminal": "Terminal", "Conversation": "Unterhaltung", "Files": "Dateien", "Run logs": "Protokolle", "Preview": "Vorschau", "Run overview": "Übersicht", "No plan yet": "Noch kein Plan", "Open task board": "Aufgaben öffnen", "Model": "Modell", "Tokens used": "Tokens genutzt", "Cost": "Kosten", "Your next edit, safely saved.": "Deine nächste Änderung, gesichert.", "View": "Ansehen", "Ready": "Bereit", "Working": "Arbeitet", "Completed": "Fertig", "Idle": "Bereit", "Your API key. Your machine. Your rules.": "Dein Schlüssel. Dein Rechner. Deine Regeln.", "What would you like to build?": "Was möchtest du bauen?", "Explain what this folder contains": "Erkläre, was dieser Ordner enthält", "Find and fix a bug": "Finde und behebe einen Fehler", "Write tests for my code": "Schreibe Tests für meinen Code", "Build a small web page and preview it": "Baue eine kleine Webseite mit Vorschau", "Allow": "Erlauben", "Deny": "Ablehnen", "Done": "Erledigt", "Running": "Läuft", "Failed": "Fehlgeschlagen", "Needs approval": "Genehmigung nötig", "Undo": "Rückgängig", "Cancel": "Abbrechen", "Save": "Speichern", "Tools & limits": "Werkzeuge & Limits", "Permissions": "Berechtigungen", "Project instructions": "Projektanweisungen", "Memory": "Gedächtnis", "Schedules": "Zeitpläne", "Phone": "Telefon", "Updates": "Updates", "Project folder": "Projektordner", "Open": "Öffnen", "Choose folder…": "Ordner wählen…", "Keyboard shortcuts": "Tastenkürzel", "Load models": "Modelle laden", "Test connection": "Verbindung testen", "Ask LightCode⁴ to build, fix or explain something…": "Bitte LightCode⁴, etwas zu bauen, zu reparieren oder zu erklären…", "Approval on": "Genehmigung an", "Auto-approve": "Automatisch erlauben", "sandboxed": "abgeschirmt", "unsandboxed": "ohne Sandbox", "Search models…": "Modelle suchen…"}};
 const I18N_ATTR = ["placeholder", "title", "aria-label"];
 let uiLang = "en";
 function tr(text) { return (I18N[uiLang] || {})[text.trim()] || null; }

diff --git a/tests/ui_audit.js b/tests/ui_audit.js
@@ -7,7 +7,7 @@ const check = (name, ok, detail = '') => (ok ? passed : problems).push(name + (d
 async function overlaps(pg, label) {
   const found = await pg.evaluate(() => {
     const sel = 'button, a, input, select, textarea, .pill, .card, .status, .badge, h1, .eyebrow, .sub, .navbtn, .chatitem, .modelchip, .sdk, .wsbox, .who, .composer, .ctab, kbd, .rrow, .nums span, .savednote';
-    const modal = document.querySelector('dialog[open]') || document.querySelector('#provMenu:not([hidden])') || document.querySelector('#railDock.open #railPop') || document.querySelector('#activityPop.open') || document.querySelector('#sideChat:not([hidden])');
+    const FLOATERS = ['railFab']; const modal = document.querySelector('dialog[open]') || document.querySelector('#provMenu:not([hidden])') || document.querySelector('#railDock.open #railPop') || document.querySelector('#activityPop.open') || document.querySelector('#sideChat:not([hidden])') || document.querySelector('#modeMenu:not([hidden])');
     const clip = el => { // the part of the element that is visible inside scrolling/clipping ancestors
       let r = el.getBoundingClientRect(); r = { left: r.left, top: r.top, right: r.right, bottom: r.bottom };
       for (let p = el.parentElement; p; p = p.parentElement) {
@@ -25,6 +25,7 @@ async function overlaps(pg, label) {
     const out = [];
     for (let i = 0; i < els.length; i++) for (let j = i + 1; j < els.length; j++) {
       const a = els[i], b = els[j]; if (a.contains(b) || b.contains(a)) continue;
+      if ((FLOATERS.includes(a.id) && b.classList.contains('card')) || (FLOATERS.includes(b.id) && a.classList.contains('card'))) continue;  // floating button over the chat area is intended
       const ra = clip(a), rb = clip(b);
       const w = Math.min(ra.right, rb.right) - Math.max(ra.left, rb.left), h = Math.min(ra.bottom, rb.bottom) - Math.max(ra.top, rb.top);
       if (w > 3 && h > 3) {
@@ -82,10 +83,9 @@ async function overlaps(pg, label) {
       await pg.fill('#palIn', 'git'); check('Palette search finds Source control', (await pg.innerText('#palList')).includes('Source control')); await pg.keyboard.press('Escape');
       await pg.click('#keysBtn'); check('Help button opens shortcuts', await pg.isVisible('#keys[open]')); await pg.click('#closeKeys');
       // --- header & model bar
-      const narrow = (await pg.locator('#modelPill').boundingBox()).width;
-      await pg.hover('#modelPill'); await pg.waitForTimeout(400);
-      const wide = (await pg.locator('#modelPill').boundingBox()).width;
-      check('Model button is just the logo, and expands on hover', narrow < 60 && wide > narrow + 80, `${Math.round(narrow)} -> ${Math.round(wide)}px`);
+      check('Front page is clean: no big heading, no suggestion chips, no footer slogan', !(await pg.isVisible('.page > .pagehead')) && !(await pg.isVisible('.chip')) && !(await pg.innerText('body')).includes('Your machine. Your rules'));
+      const mp = await pg.locator('#modelPill').boundingBox(), cb = await pg.locator('#composer').boundingBox();
+      check('Model and mode sit under the message box', mp && cb && mp.y > cb.y + cb.height - 2 && await pg.isVisible('#planBtn'), JSON.stringify([mp?.y, cb?.y, cb?.height]));
       await pg.click('#modelPill'); await pg.waitForTimeout(500);
       check('Model name opens the provider menu', await pg.isVisible('#provMenu'));
       check('Provider menu lists providers with logos', (await pg.locator('#provList .prow').count()) >= 15 && (await pg.locator('#provList .plogo svg').count()) >= 8);
@@ -106,8 +106,14 @@ async function overlaps(pg, label) {
       await overlaps(pg, 'overview open');
       await pg.click('#railModelBtn'); await pg.waitForSelector('#modelPicker[open]'); await pg.waitForTimeout(300);
       check('Rail model opens the model list', await pg.isVisible('#mpList')); await overlaps(pg, 'model picker'); await pg.keyboard.press('Escape');
-      await pg.click('#planBtn'); await pg.waitForTimeout(200); check('Plan mode toggles on', await pg.evaluate(() => document.getElementById('planBtn').classList.contains('on')));
-      await pg.click('#planBtn'); await pg.waitForTimeout(200);
+      await pg.click('#planBtn'); await pg.waitForTimeout(200); check('Mode button opens the mode menu', await pg.isVisible('#modeMenu'));
+      await overlaps(pg, 'mode menu');
+      await pg.click('#modeMenu [data-mode="plan"]'); await pg.waitForTimeout(250);
+      check('Choosing Plan mode turns it on', await pg.evaluate(() => document.getElementById('planBtn').classList.contains('on')) && (await pg.innerText('#modeLabel')) === 'Plan mode');
+      await pg.click('#planBtn'); await pg.click('#modeMenu [data-mode="auto"]'); await pg.waitForTimeout(250);
+      check('Auto-approve can be chosen', (await pg.innerText('#modeLabel')) === 'Auto-approve' && !(await pg.evaluate(() => document.getElementById('planBtn').classList.contains('on'))));
+      await pg.click('#planBtn'); await pg.click('#modeMenu [data-mode="ask"]'); await pg.waitForTimeout(250);
+      check('Back to Asks first', (await pg.innerText('#modeLabel')) === 'Asks first');
       await pg.click('#termToggle'); check('Terminal button opens the Terminal', await pg.isVisible('#termBox'));
       await pg.click('#browserToggle'); check('Browser button opens the Browser', await pg.isVisible('#bview'));
       for (const t of ['git', 'term', 'browser', 'chat']) { await pg.click(`.ctab[data-c="${t}"]`); await overlaps(pg, `tab ${t}`); }
